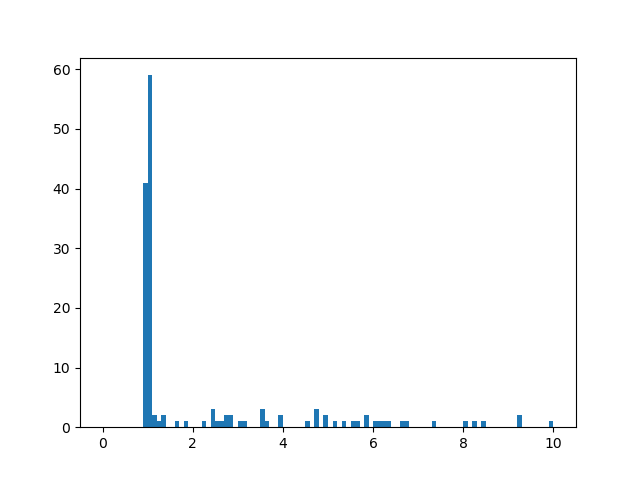
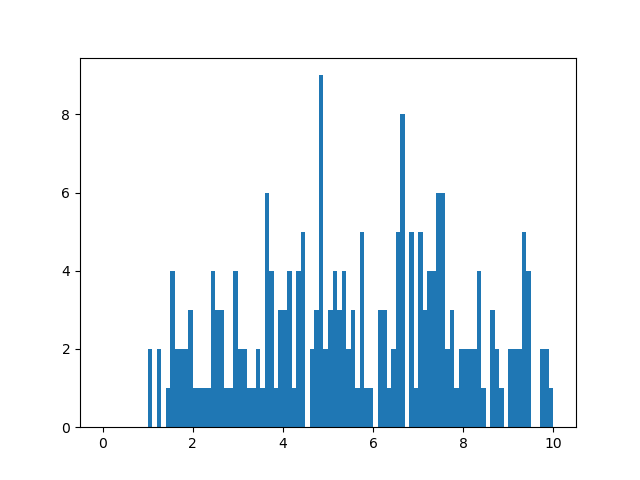
code for experiments; better arg parsing

diff --git a/sparsify.py b/sparsify.py
@@ -1,10 +1,6 @@
 """
-
 Evaluate different sparsity-related things on trained models
-
-TODO:
-* sparsify_args()
-
+@author: kkorovin@cs.cmu.edu
 """
 
 import matplotlib.pyplot as plt
@@ -16,34 +12,80 @@ from corenet import sparsify_corenet
 from utils import evaluate_coverage, evaluate_val_acc
 
 
-if __name__=="__main__":
-    args = sparsify_args()
-    model = get_model(args.model_name)
-    model.load("debug", args.model_dir)
-    train_data = get_dataset("mnist", is_train=True)
-    val_data   = get_dataset("mnist", is_train=False)
-    val_loader = get_data_loader("mnist", is_train=False)
+def display_results(exp_header, res, logfile=None):
+    """Display results of sparsification experiment
 
-    sparse_model = sparsify_corenet(model, train_data, 
-                                    s_sparse=1.)
+    Arguments:
+        exp_header {string} -- description of experiment
+        res {dict} -- results
 
-    pre_nnz = model.count_nnz()
-    post_nnz = sparse_model.count_nnz()
-    print("Nonzero weights in unsparsified model:\t{}".format(pre_nnz))
-    print("Nonzero weights in sparsified model:\t{}".format(post_nnz))
-    print("Sparsification rate:\t{:.3f}".format(post_nnz/pre_nnz))
-
+    Keyword Arguments:
+        logfile {string} -- file to save readable description (default: {None})
+    """
+    pre_nnz = res['sparsification']['pre_nnz']
+    post_nnz = res['sparsification']['post_nnz']
+    max_dev = res['coverage']
     val = 0.5
-    max_dev = evaluate_coverage(val, model, sparse_model, val_data, 0.5)
     cov = (max_dev < val).mean()
-    print("Percentage of sampled val pts within {:.3f} relative range: {}".format(val, cov))
+    pre_acc = res['accuracy']['pre_acc']
+    post_acc = res['accuracy']['post_acc']
+
+    if logfile is None:
+        print(exp_header)
+        print("Nonzero weights in unsparsified model:\t{}".format(pre_nnz))
+        print("Nonzero weights in sparsified model:\t{}".format(post_nnz))
+        print("Sparsification rate:\t{:.3f}".format(post_nnz/pre_nnz))
+        print("Percentage of sampled val pts within {:.3f} relative range: {}".format(val, cov))
+        print("Unsparsified model val acc:\t{:.3f}".format(pre_acc))
+        print("Sparsified model val acc:\t{:.3f}".format(post_acc))
+    else:
+        with open(logfile, 'a+') as f:  # append to existing file
+            f.write("\t" + exp_header + "\n")
+            f.write("Nonzero weights in unsparsified model:\t{}\n".format(pre_nnz))
+            f.write("Nonzero weights in sparsified model:\t{}\n".format(post_nnz))
+            f.write("Sparsification rate:\t{:.3f}\n".format(post_nnz/pre_nnz))
+            f.write("Percentage of sampled val pts within {:.3f} relative range: {}\n".format(val, cov))
+            f.write("Unsparsified model val acc:\t{:.3f}\n".format(pre_acc))
+            f.write("Sparsified model val acc:\t{:.3f}\n".format(post_acc))
     plt.hist(max_dev, bins=100, range=[0, 10])
     plt.savefig("./results/max_dev")
+    plt.clf()
+
+def evaluate_sparsifier(model_name, dataset, check_name, model_dir, sparse, **kwargs):
+    """ Run a single sparsification eval and return the result.
+        TODO: add a custom sparsification caller.
+    """
+    if check_name == "default":
+        check_name = f"{model_name}_{dataset}"
+
+    model = get_model(model_name)
+    model.load(check_name, model_dir)
+    train_data = get_dataset(dataset, is_train=True)
+    val_data   = get_dataset(dataset, is_train=False)
+    val_loader = get_data_loader(dataset, is_train=False)
+
+    sparse_model = sparsify_corenet(model, train_data, 
+                                    s_sparse=sparse)
+    pre_nnz = model.count_nnz()
+    post_nnz = sparse_model.count_nnz()
+
+    max_dev = evaluate_coverage(model, sparse_model, val_data, 0.5)
 
     pre_acc = evaluate_val_acc(model, val_loader)
     post_acc = evaluate_val_acc(sparse_model, val_loader)
-    print("Unsparsified model val acc:\t{:.3f}".format(pre_acc))
-    print("Sparsified model val acc:\t{:.3f}".format(post_acc))
 
-    # according to theoretical bounds
-    # est = estimated_sparsity()
+    res = {
+        'sparsification': {'pre_nnz': pre_nnz, 'post_nnz': post_nnz},
+        'accuracy': {'pre_acc': pre_acc,  'post_acc': post_acc},
+        'coverage': max_dev
+    }
+
+    return res
+
+
+if __name__=="__main__":
+    args = sparsify_args()
+    results = evaluate_sparsifier(**vars(args))
+    exp_header = f"{args.model_name}, {args.dataset}, {args.sparse}"
+    display_results(exp_header, results)
+

diff --git a/train.py b/train.py
@@ -28,7 +28,6 @@ def train_epoch(model, data, crit, opt, scheduler):
         running_loss += loss.item()
     return running_loss / len(data)
 
-
 def validate(model, data, crit, scheduler=None):
     model.eval()
     running_loss = 0.
@@ -46,26 +45,32 @@ def validate(model, data, crit, scheduler=None):
     running_loss /= len(data)
     return running_loss, np.mean(accs)
 
+def train_model(model_name, dataset, batch_size, lr, n_epochs, check_name, model_dir, **kwargs):
+    if check_name == "default":
+        check_name = f"{model_name}_{dataset}"
 
-if __name__=="__main__":
-    args = train_args()
-    model = get_model(args.model_name)
-    train_dataloader = get_data_loader(args.dataset, True, 
-                                       batch_size=args.batch_size)
-    val_dataloader = get_data_loader(args.dataset, False, 
-                                     batch_size=args.batch_size)
+    model = get_model(model_name)
+    train_dataloader = get_data_loader(dataset, True, 
+                                       batch_size=batch_size)
+    val_dataloader = get_data_loader(dataset, False, 
+                                     batch_size=batch_size)
 
     # stuff that could be adjusted
-    opt = Adam(model.parameters(), lr=args.lr)
+    opt = Adam(model.parameters(), lr=lr)
     scheduler = ReduceLROnPlateau(opt, patience=3, threshold=0.1, min_lr=1e-5)
     criterion = nn.CrossEntropyLoss()
 
-    for epoch in range(args.n_epochs):
+    for epoch in range(n_epochs):
         loss = train_epoch(model, train_dataloader, criterion, opt, scheduler)
         print("Finished epoch {}, avg loss {:.3f}".format(epoch+1, loss))
         val_loss, acc = validate(model, val_dataloader, criterion, scheduler)
         print("Validation loss: {}, accuracy: {}".format(val_loss, acc))
-        model.save("debug", args.model_dir)
+        model.save(check_name, model_dir)
 
-    print("Model {} has been saved to {}".format(args.model_name, args.model_dir))
+    print("Model {} has been saved to {}".format(model_name, model_dir))
+
+
+if __name__=="__main__":
+    args = train_args()
+    train_model(**vars(args))
 

diff --git a/models.py b/models.py
@@ -27,22 +27,22 @@ act_decode = {"relu": partial(nn.ReLU, inplace=True),
               }
 
 model_settings = {
-                "debug": {"input_size": 5,
-                         "sizes_list": [3, 2],
-                         "activations_list": ["relu"]},
-                "debug2": {"input_size": 28 * 28,
-                         "sizes_list": [200, 100, 10],
-                         "activations_list": ["relu", "relu"]},
-                "large_max": {"input_size": None,
-                              "sizes_list": [None],
-                              "activations_list": [None]},
-                "equal_sizes": {"input_size": None,
-                              "sizes_list": [None],
-                              "activations_list": [None]},
-                "long": {"input_size": None,
-                        "sizes_list": [None],
-                        "activations_list": [None]}
-                }
+                "small_mnist": {"input_size": 28 * 28,
+                                "sizes_list": [200, 100, 10],
+                                "activations_list": ["relu", "relu"]},
+                "large_max_mnist": {"input_size": 28 * 28,
+                                    "sizes_list": [200, 1000, 100, 10],
+                                    "activations_list": ["relu", "relu", "relu"]},
+                "equal_sizes_mnist": {"input_size": 28 * 28,
+                                      "sizes_list": [100, 100, 100, 10],
+                                      "activations_list": ["relu"] * 3},
+                "long_mnist": {"input_size": 28 * 28,
+                               "sizes_list": [100, 200, 200, 100, 10],
+                               "activations_list": ["relu"] * 4},
+                "small_cifar": {"input_size": 32 * 32,
+                               "sizes_list": [100, 200, 200, 10],
+                               "activations_list": ["relu"] * 4}
+}
 
 class FullyConnectedNN(nn.Module):
     def __init__(self, input_size, sizes_list, activations_list):

diff --git a/args.py b/args.py
@@ -1,28 +1,34 @@
 """
-
 Argument parser
-
-TODO: implement
-
+@author: kkorovin@cs.cmu.edu
 """
 
 import argparse
 
 def train_args():
     parser = argparse.ArgumentParser()
-    parser.add_argument("--dataset", type=str)
-    parser.add_argument("--model_name", type=str)
-    parser.add_argument("--n_epochs", default=10, type=int)
-    parser.add_argument("--lr", default=1e-2, type=float)
-    parser.add_argument("--batch_size", default=64, type=int)
+    parser.add_argument("-d", "--dataset", type=str)
+    parser.add_argument("-m", "--model_name", type=str,
+        help="Model config name from models.py")
+    parser.add_argument("-e", "--n_epochs", default=10, type=int)
+    parser.add_argument("-l", "--lr", default=1e-2, type=float)
+    parser.add_argument("-b", "--batch_size", default=64, type=int)
+    # checkpoints
+    parser.add_argument("-c", "--check_name", default="default", type=str,
+        help="Model checkpoint name to save. Defaults to model_name_dataset")
     parser.add_argument("--model_dir", default="./checkpoints", type=str)
     return parser.parse_args()
 
 def sparsify_args():
     # add s_sparse, coverage evaluation etc
     parser = argparse.ArgumentParser()
-    parser.add_argument("--dataset", type=str)
-    parser.add_argument("--model_name", type=str)
-    parser.add_argument("--batch_size", default=64, type=int)
+    parser.add_argument("-d", "--dataset", type=str)
+    parser.add_argument("-m", "--model_name", type=str,
+        help="Model config name from models.py")
+    parser.add_argument("-s", "--sparse", type=float,
+        help="Sparsification rate")
+    # checkpoints
+    parser.add_argument("-c", "--check_name", default="default", type=str,
+        help="Model checkpoint name to save. Defaults to model_name_dataset")
     parser.add_argument("--model_dir", default="./checkpoints", type=str)
     return parser.parse_args()

diff --git a/utils.py b/utils.py
@@ -1,10 +1,6 @@
 """
-Basic utilities for the project:
-
-- Values of upper bounds on sparsity
-- Values of upper bounds on generalization
-- Boring utility functions of little interest
-
+Basic utilities for the project
+@author: kkorovin@cs.cmu.edu
 """
 
 import torch
@@ -15,7 +11,7 @@ from train import validate
 from constants import *
 
 
-def evaluate_coverage(value, model, sparse_model, dataset, sample_rate=0.2):
+def evaluate_coverage(model, sparse_model, dataset, sample_rate=0.2, use_log=False):
 	""" Returns delta_hat - percentage of cases in dataset where
 		sparse model's outputs are within
 		[(1-value)*y_hat, (1+value)*y_hat],
@@ -25,11 +21,11 @@ def evaluate_coverage(value, model, sparse_model, dataset, sample_rate=0.2):
 	sample_size = min(500, int(sample_rate * len(dataset)))
 	S = sample_from_dataset(dataset, sample_size).to(DEVICE)
 
-	sm = nn.LogSoftmax(dim=1)
+	sm = nn.LogSoftmax(dim=1) if use_log else (lambda x: x)
 	model_out  = sm(model(S)).detach().numpy()
 	sparse_out = sm(sparse_model(S)).detach().numpy()
 
-	ratio = np.exp(sparse_out - model_out)
+	ratio = np.exp(sparse_out - model_out) if use_log else sparse_out/model_out
 	max_dev_from_one = np.max(np.abs(ratio - 1), axis=1)
 	# hist =  np.histogram(max_dev_from_one)
 	return max_dev_from_one  #  (max_dev_from_one<value).mean()

diff --git a/experiments.py b/experiments.py
@@ -1,0 +1,30 @@
+"""
+Experiment sets.
+@author: kkorovin@cs.cmu.edu
+"""
+
+from train import train_model
+from sparsify import evaluate_sparsifier, display_results
+
+# Experiment definitions ------------------------------------------------------
+experiments = [
+    {'model_name': 'small_mnist', 'dataset': 'mnist'},
+    {'model_name': 'long_mnist', 'dataset': 'mnist'},
+    {'model_name': 'small_cifar', 'dataset': 'cifar10'},
+]
+# Modify these arguments depending on settings
+default_train_settings = {'batch_size': 64, 'lr': 1e-2, 'n_epochs': 2,
+                          'check_name': 'default', 'model_dir': './checkpoints'}
+
+for exp in experiments:
+    exp = exp.update(default_train_settings)
+
+# Experiment runner -----------------------------------------------------------
+if __name__ == "__main__":
+    for exp_setting in experiments:
+        train_model(**exp_setting)
+        for sparse in [0.1, 1, 2]:
+            exp_setting['sparse'] = sparse
+            results = evaluate_sparsifier(**exp_setting)
+            exp_header = f"{exp_setting['model_name']}, {exp_setting['dataset']}, {exp_setting['sparse']}"
+            display_results(exp_header, results, logfile='./results/log')

diff --git a/datasets.py b/datasets.py
@@ -77,7 +77,7 @@ def get_cifar10(is_train):
             transforms.RandomCrop(32, padding=4),
             transforms.RandomHorizontalFlip(),
             transforms.ToTensor(),
-            transforms.Normalize((0.4914, 0.4822, 0.4465), (0.2023, 0.1994, 0.2010)),
+            # transforms.Normalize((0.4914, 0.4822, 0.4465), (0.2023, 0.1994, 0.2010)),
         ])
         train_data = CIFAR10(root='data', train=True, download=True,
                              transform=transform_train)
@@ -85,7 +85,7 @@ def get_cifar10(is_train):
 
     transform_test = transforms.Compose([
         transforms.ToTensor(),
-        transforms.Normalize((0.4914, 0.4822, 0.4465), (0.2023, 0.1994, 0.2010)),
+        # transforms.Normalize((0.4914, 0.4822, 0.4465), (0.2023, 0.1994, 0.2010)),
     ])
     val_data = torchvision.datasets.CIFAR10(root='data', train=False, download=True,
                                             transform=transform_test)

diff --git a/corenet.py b/corenet.py
@@ -1,5 +1,4 @@
 """
-
 Implements compression strategies:
 1. described in https://arxiv.org/pdf/1804.05345.pdf:
 
@@ -9,6 +8,8 @@ Implements compression strategies:
 
 2. our own proposed for CNNs
 
+@author: kkorovin@cs.cmu.edu,
+         apodkopa@andrew.cmu.edu
 """
 
 import numpy as np

diff --git a/README.md b/README.md
@@ -1,11 +1,14 @@
 # Neural network compression with coresets
 
+Authors: Ksenia Korovina, Aleksandr Podkopaev
+
 To reproduce the experiments, one should be able to run
 ```bash
 python train.py [with args]
 python sparsify.py [with args]
 ```
-# TODO:
+
+## TODO:
 
 - [x] CoreNet
 - [ ] SVD for baseline comparison
